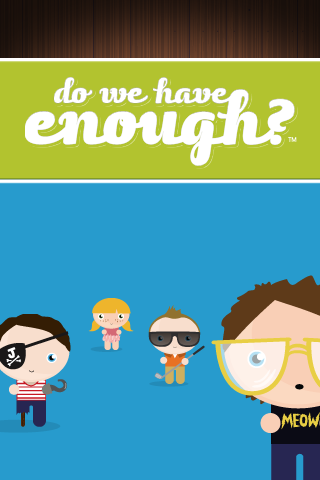
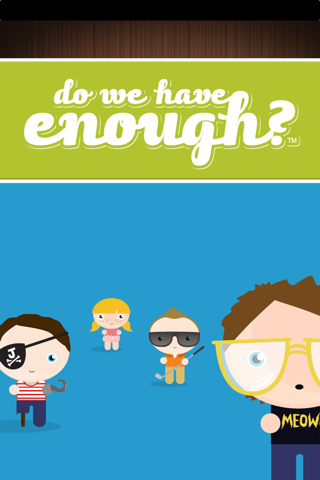
default image change, fixed a crash

diff --git a/do-we-have-enough/iphone/trunk/Do We Have Enough/Classes/Do_We_Have_EnoughAppDelegate.m b/do-we-have-enough/iphone/trunk/Do We Have Enough/Classes/Do_We_Have_EnoughAppDelegate.m
@@ -12,6 +12,7 @@
 #import "SettingsTracker.h"
 #import "TestFlight.h"
 #import "FlurryAnalytics.h"
+#import "EventDetailsViewController.h"
 //#import "Beacon.h"
 
 
@@ -63,6 +64,7 @@
 	NSLog(@"got user info: %@", userInfo);
     self.launchEventID = [[userInfo objectForKey:@"push_data"] objectForKey:@"event_id"];
     UIApplicationState state = [application applicationState];
+    NSLog(@"TESTNOTIFICATIONS");
     if (state == UIApplicationStateActive) {
         NSDictionary *aps = [userInfo objectForKey:@"aps"];
         NSString *myAlert = [aps objectForKey:@"alert"];
@@ -71,8 +73,11 @@
         [alert release];
         if ([homeController respondsToSelector:@selector(checkValidation)])
             [homeController performSelector:@selector(checkValidation)];
-        if ([navigationController.topViewController respondsToSelector:@selector(refreshData)])
-            [navigationController.topViewController performSelector:@selector(refreshData)];
+    }else{
+        
+        [[UIApplication sharedApplication] setApplicationIconBadgeNumber: 1];
+        [[UIApplication sharedApplication] setApplicationIconBadgeNumber: 0];
+        [[UIApplication sharedApplication] cancelAllLocalNotifications];
     }
 }
 - (BOOL)application:(UIApplication *)application didFinishLaunchingWithOptions:(NSDictionary *)launchOptions
@@ -84,7 +89,15 @@
 	NSLog(@"got launchoptions: %@", launchOptions);
 	NSDictionary *push_data = [[launchOptions objectForKey:@"UIApplicationLaunchOptionsRemoteNotificationKey"] objectForKey:@"push_data"];
 	NSString *myEventID = [push_data objectForKey:@"event_id"];
-	self.launchEventID = myEventID;
+    if([myEventID intValue] > 0)
+    {
+        [[UIApplication sharedApplication] setApplicationIconBadgeNumber: 1];
+        [[UIApplication sharedApplication] setApplicationIconBadgeNumber: 0];
+        [[UIApplication sharedApplication] cancelAllLocalNotifications];
+        self.launchEventID = myEventID;
+    }else{
+        self.launchEventID = @"";
+    }
 	[FlurryAnalytics startSession:@"7994fb80cece2b2663b0c3188280ae63"];
 	
 	[[UIApplication sharedApplication] registerForRemoteNotificationTypes:(UIRemoteNotificationTypeBadge | UIRemoteNotificationTypeSound |UIRemoteNotificationTypeAlert)];

diff --git a/do-we-have-enough/iphone/trunk/Do We Have Enough/Classes/EventDetailsViewController.m b/do-we-have-enough/iphone/trunk/Do We Have Enough/Classes/EventDetailsViewController.m
@@ -135,14 +135,19 @@ bool updatingStatus;
 }
 -(void)refreshData
 {
-	[memberlist removeAllObjects];
-	[eventDetails removeAllObjects];
-	LoadingView *myLoadingView = [LoadingView loadingViewInView:[self.view.window.subviews objectAtIndex:0]];
-	loadingView = myLoadingView;
-	NSString * path = [[NSString alloc] initWithFormat:@"http://%@.dowehaveenough.com/devices/get_event.xml", [[[NSBundle mainBundle] infoDictionary] valueForKey:@"WEB_ENVIRONMENT"]];
-	
-	[self retrieveXMLFileAtURL:path];
-	[path release];
+    if(!updatingStatus)
+    {
+        updatingStatus = true;
+        NSLog(@"REFRESH");
+        [memberlist removeAllObjects];
+        [eventDetails removeAllObjects];
+        LoadingView *myLoadingView = [LoadingView loadingViewInView:[self.view.window.subviews objectAtIndex:0]];
+        loadingView = myLoadingView;
+        NSString * path = [[NSString alloc] initWithFormat:@"http://%@.dowehaveenough.com/devices/get_event.xml", [[[NSBundle mainBundle] infoDictionary] valueForKey:@"WEB_ENVIRONMENT"]];
+        
+        [self retrieveXMLFileAtURL:path];
+        [path release];
+    }
 }
 
 - (void)viewDidLoad {
@@ -177,9 +182,9 @@ bool updatingStatus;
     [super viewDidLoad];
 }
 - (void)viewDidAppear:(BOOL)animated {
-	//if ([eventDetails count] == 0) {
+	if ([eventDetails count] == 0) {
 		[self refreshData];
-	//}
+	}
     [super viewDidAppear:animated];
 }
 
@@ -605,12 +610,12 @@ titleForHeaderInSection:(NSInteger)section
 	[req addValue:msgLength forHTTPHeaderField:@"Content-Length"];
     [req setHTTPMethod:@"POST"];
     [req setHTTPBody: [postString dataUsingEncoding:NSUTF8StringEncoding]];
-    
     conn = [[NSURLConnection alloc] initWithRequest:req delegate:self];
     if (conn) {
         webData = [[NSMutableData data] retain];
     }
 }
+
 -(void) connectionDidFinishLoading:(NSURLConnection *) connection {
     NSLog(@"DONE. Received Bytes: %d", [webData length]);
     NSString *theXML = [[NSString alloc] 
